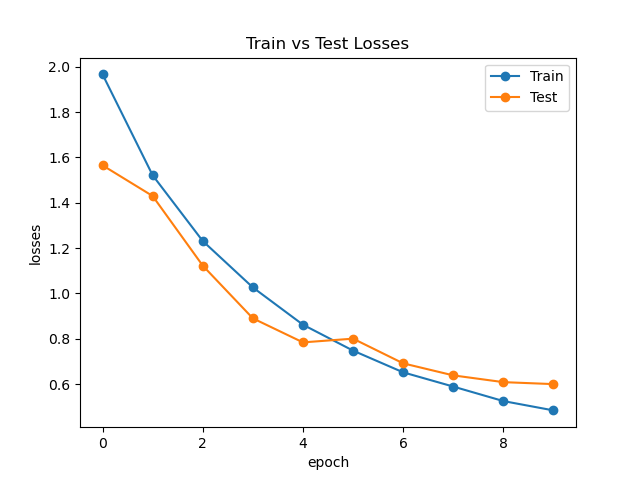
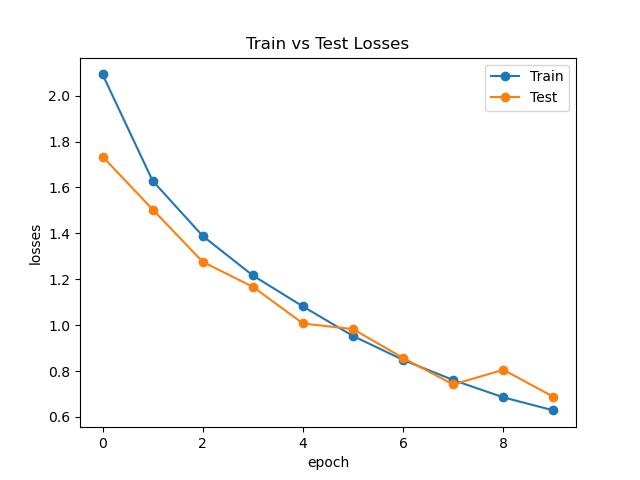
Learning Rate Scheduler Added

diff --git a/optimizer.py b/optimizer.py
@@ -2,6 +2,10 @@ import torch
 from torch.optim.lr_scheduler import CosineAnnealingLR, StepLR, CyclicLR
 
 def optim(model_name, model, lr):
+    """
+    The script tries to replicates the optimizer used in the paper, sometimes it resulted
+    in Nan loss and I've modified the learning rate scheduler to make it work.
+    """
     if model_name == 'resnet':
         optimizer = torch.optim.SGD(model.parameters(), lr=lr, weight_decay=0.0001, momentum=0.9)
         scheduler = CosineAnnealingLR(optimizer, T_max=200)

diff --git a/train_test.py b/train_test.py
@@ -23,7 +23,7 @@ class training:
     def runner(self):
         
         criterion = nn.CrossEntropyLoss()
-        if self.model_name in ['resnet', 'vggnet', 'alexnet']:
+        if self.model_name in ['resnet', 'alexnet']:
             optimizer, scheduler = optim(model_name=self.model_name, model=self.model, lr=self.learning_rate)
 
         elif self.optimizer == 'sgd':

diff --git a/README.md b/README.md
@@ -10,7 +10,9 @@ Image Classification is a fundamental computer vision task with huge scope in va
 
 ### 🗒 Papers With Implementation
 
-Base Config: {epochs: 10, lr: 0.001, batch_size: 128, img_resolution: 224, optim: adam}. Some architecture like SqueezeNet, ShuffleNet, InceptionV3, EfficientNet, Darknet53 and others didn't work at base config because of increased complexity of the architecture, thus by reducing the batch size the architecture was executed in Google Colab and Kaggle. 
+Base Config: {epochs: 10, lr: 0.001, batch_size: 128, img_resolution: 224, optim: adam}. Some architecture like SqueezeNet, ShuffleNet, InceptionV3, EfficientNet, Darknet53 and others didn't work at base config because of increased complexity of the architecture, thus by reducing the batch size the architecture was executed in Google Colab and Kaggle.
+
+Optimizer script: Includes the approx setup of the optimizer used in the original paper. Few setup led to Nan loss and were tweaked to make it work.
 
 I've noticed that Google Colab has 12GB GPU while Kaggle has 16 GB GPU. So in worst case scenario, I've reduced the batch size in accordance to fit the Kaggle GPU. Just to mention, I use RTX2070 8GB.
 
